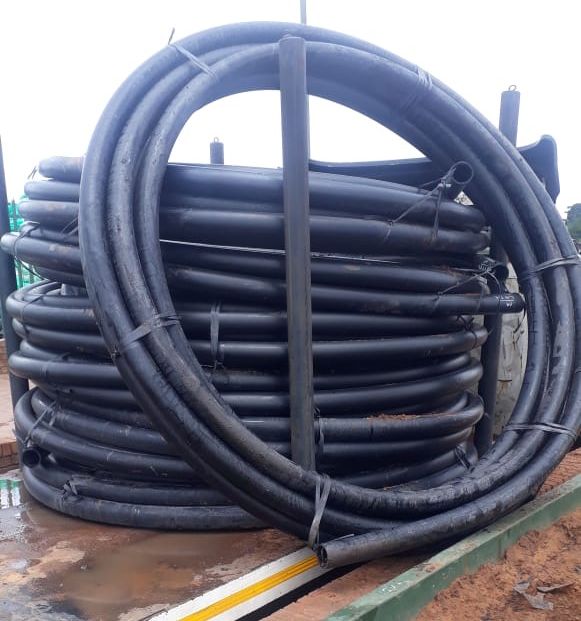
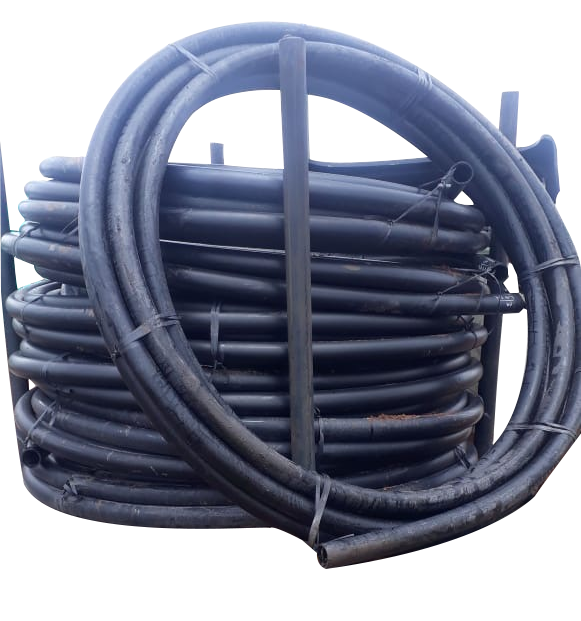
gallery

diff --git a/public/gallery.html b/public/gallery.html
@@ -139,28 +139,31 @@
 									<img class="img-responsive" src="./assets/images/Manufacturing/3. Inter-Stage Screens/Inter-stage10.PNG" alt="image" style="height: 240px; width: 250px">
 
 									<h2 class="teal-text animation 1" style="font-family: 'Abel', sans-serif;"><strong>Conveyor Idlers</strong></h2><br>
-									<img class="img-responsive" src="./assets/images/Manufacturing/4. Conveyor Idlers/Idler1.jpg" alt="image" style="height: 240px; width: 250px">
-									<img class="img-responsive" src="./assets/images/Manufacturing/4. Conveyor Idlers/Idler2.jpg" alt="image" style="height: 240px; width: 250px">
-									<img class="img-responsive" src="./assets/images/Manufacturing/4. Conveyor Idlers/Idler3.jpg" alt="image" style="height: 240px; width: 250px">
-									<img class="img-responsive" src="./assets/images/Manufacturing/4. Conveyor Idlers/Idler4.jpg" alt="image" style="height: 240px; width: 250px">
+									<img class="img-responsive" src="./assets/images/Manufacturing/4. Conveyor Idlers/Idler1.png" alt="image" style="height: 240px; width: 250px">
+									<img class="img-responsive" src="./assets/images/Manufacturing/4. Conveyor Idlers/Idler2.png" alt="image" style="height: 240px; width: 250px">
+									<img class="img-responsive" src="./assets/images/Manufacturing/4. Conveyor Idlers/Idler3.png" alt="image" style="height: 240px; width: 250px">
+									<img class="img-responsive" src="./assets/images/Manufacturing/4. Conveyor Idlers/Idler4.png" alt="image" style="height: 240px; width: 250px">
 									<h2 class="teal-text animation 1" style="font-family: 'Abel', sans-serif;"><strong>Screen Panels</strong></h2><br>
-									<img class="img-responsive" src="./assets/images/Manufacturing/Screen Panels/Screen1.jpg" alt="image" style="height: 240px; width: 250px">
-									<img class="img-responsive" src="./assets/images/Manufacturing/Screen Panels/Screen2.png" alt="image" style="height: 240px; width: 250px">
-									<img class="img-responsive" src="./assets/images/Manufacturing/Screen Panels/Screen3.png" alt="image" style="height: 240px; width: 250px">
-									<img class="img-responsive" src="./assets/images/Manufacturing/Screen Panels/Screen4.png" alt="image" style="height: 240px; width: 250px">
+									<p class="teal-text ">Mesh Wire</p>
+									<img class="img-responsive" src="./assets/images/Manufacturing/Screen Panels/Mesh Wire/MW1.jpg" alt="image" style="height: 240px; width: 250px">
+									<img class="img-responsive" src="./assets/images/Manufacturing/Screen Panels/Mesh Wire/MW2.jpg" alt="image" style="height: 240px; width: 250px">
+									<img class="img-responsive" src="./assets/images/Manufacturing/Screen Panels/Mesh Wire/MW3.png" alt="image" style="height: 240px; width: 250px">
+									
+									<h2 class="teal-text animation 1" style="font-family: 'Abel', sans-serif;"><strong>Poly Wedge Screen Panels</strong></h2><br>
+
+									<p class="teal-text ">Polyurethane Screen Panels</p>
+									<img class="img-responsive" src="./assets/images/Manufacturing/Screen Panels/Polyurethane Screen Panels/psp1.png" alt="image" style="height: 240px; width: 250px">
+									<img class="img-responsive" src="./assets/images/Manufacturing/Screen Panels/Polyurethane Screen Panels/psp3.png" alt="image" style="height: 240px; width: 250px">
 
 									<h2 class="teal-text animation 1" style="font-family: 'Abel', sans-serif;"><strong>Spray Nozzles</strong></h2><br>
 									<img class="img-responsive" src="./assets/images/Manufacturing/6. Spray Nozzles/Spray1.png" alt="image" style="height: 240px; width: 250px">
 									<img class="img-responsive" src="./assets/images/Manufacturing/6. Spray Nozzles/Spray2.png" alt="image" style="height: 240px; width: 250px">
 
 									<h2 class="teal-text animation 1" style="font-family: 'Abel', sans-serif;"><strong> HDPE Pipes</strong></h2><br>
-									<img class="img-responsive" src="./assets/images/Manufacturing/7. HDPE Pipes/Pipe1.JPG" alt="image" style="height: 240px; width: 250px">
+									<img class="img-responsive" src="./assets/images/Manufacturing/7. HDPE Pipes/Pipe1.png" alt="image" style="height: 240px; width: 250px">
 									<img class="img-responsive" src="./assets/images/Manufacturing/7. HDPE Pipes/Pipe2.png" alt="image" style="height: 240px; width: 250px">
-									<img class="img-responsive" src="./assets/images/Manufacturing/7. HDPE Pipes/Pipe3.JPG" alt="image" style="height: 240px; width: 250px">
+									<img class="img-responsive" src="./assets/images/Manufacturing/7. HDPE Pipes/Pipe3.png" alt="image" style="height: 240px; width: 250px">
 									<img class="img-responsive" src="./assets/images/Manufacturing/7. HDPE Pipes/Pipe4.png" alt="image" style="height: 240px; width: 250px">
-
-						
-
 
 									<h2 class="teal-text animation 1" style="font-family: 'Abel', sans-serif;"><strong>Polyurethane Liners</strong></h2><br>
 									<img class="img-responsive" src="./assets/images/Manufacturing/PolyurethaneLiners/PL2.png" alt="image" style="height: 240px; width: 250px">
